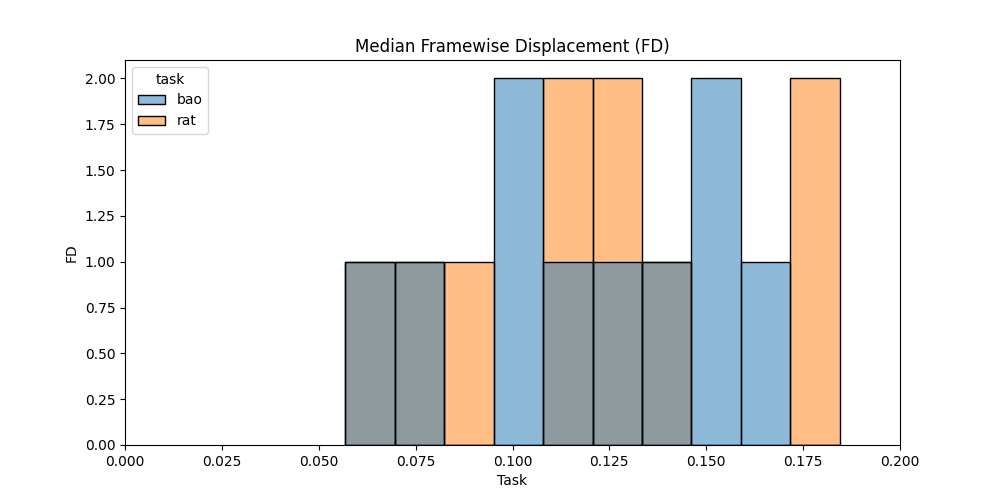
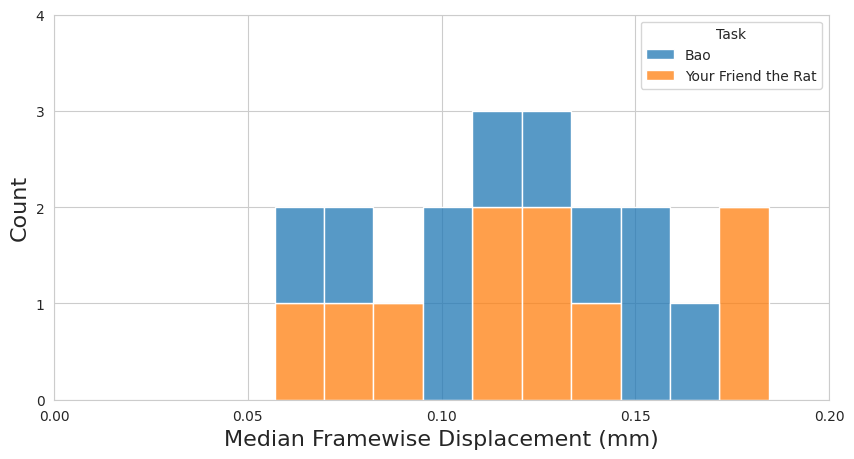
Improve median FD figure.

diff --git a/qc/plot_median_fd.py b/qc/plot_median_fd.py
@@ -49,13 +49,14 @@ if __name__ == "__main__":
         subject = [e for e in entities if e.startswith("sub-")]
         subject = subject[0].replace("sub-", "")
         print(f"{subject} {task}: {fd}")
+        task = "Bao" if task == "bao" else "Your Friend the Rat"
 
         # Add to output DataFrame
         out_df = pd.Series(
             {
                 "subject": subject,
-                "task": task,
-                "fd": fd,
+                "Task": task,
+                "FD": fd,
             }
         )
         out_dfs.append(out_df)
@@ -64,10 +65,12 @@ if __name__ == "__main__":
     out_df.to_csv(os.path.join(data_dir, "median_fd.tsv"), sep="\t", index=False)
 
     # Plot median FD across subjects as a histogram, with hue by task
+    sns.set_style("whitegrid")
     fig, ax = plt.subplots(figsize=(10, 5))
-    sns.histplot(x="fd", data=out_df, hue="task", ax=ax, bins=10)
+    sns.histplot(x="FD", data=out_df, hue="Task", multiple="stack", ax=ax, bins=10)
     ax.set_xlim(0, 0.2)
-    ax.set_title("Median Framewise Displacement (FD)")
-    ax.set_xlabel("Task")
-    ax.set_ylabel("FD")
-    plt.savefig(os.path.join(figure_dir, "median_fd.png"))
+    ax.set_xlabel("Median Framewise Displacement (mm)", fontsize=16)
+    ax.set_ylabel("Count", fontsize=16)
+    ax.set_xticks([0, 0.05, 0.1, 0.15, 0.2])
+    ax.set_yticks([0, 1, 2, 3, 4])
+    fig.savefig(os.path.join(figure_dir, "median_fd.png"), bbox_inches="tight")
